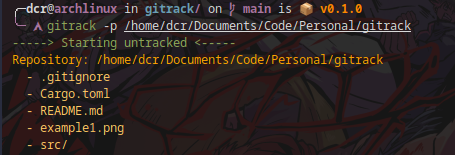
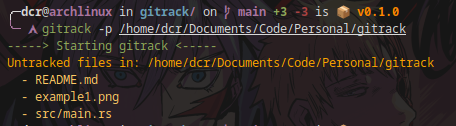
Change info message and examples

diff --git a/src/main.rs b/src/main.rs
@@ -25,7 +25,7 @@ fn main() {
     // Init the CLI using clap
     let args = Args::parse();
 
-    println!("{}", "-----> Starting untracked <-----".green());
+    println!("{}", "-----> Starting gitrack <-----".green());
 
     let start_path = Path::new(&args.path);
     let git_repos = find_git_repos(start_path);
@@ -55,7 +55,7 @@ fn main() {
 
 fn print_results(results: Vec<(PathBuf, Vec<String>)>, summary: bool) {
     for (repo_path, untracked_files) in results {
-        println_orange!("Repository: {}", repo_path.display());
+        println_orange!("Untracked files in: {}", repo_path.display());
         if !summary {
             for file in untracked_files {
                 println_light_orange!("  - {}", file);

diff --git a/README.md b/README.md
@@ -24,7 +24,7 @@ gitrack --help
 
 > By default, it will look for untracked changes in your home folder.
 
-Scanning for untracked changes, specific folder
+Scanning for untracked changes, specific folder:
 
 ```shell
 gitrack -p /my/folder/path
